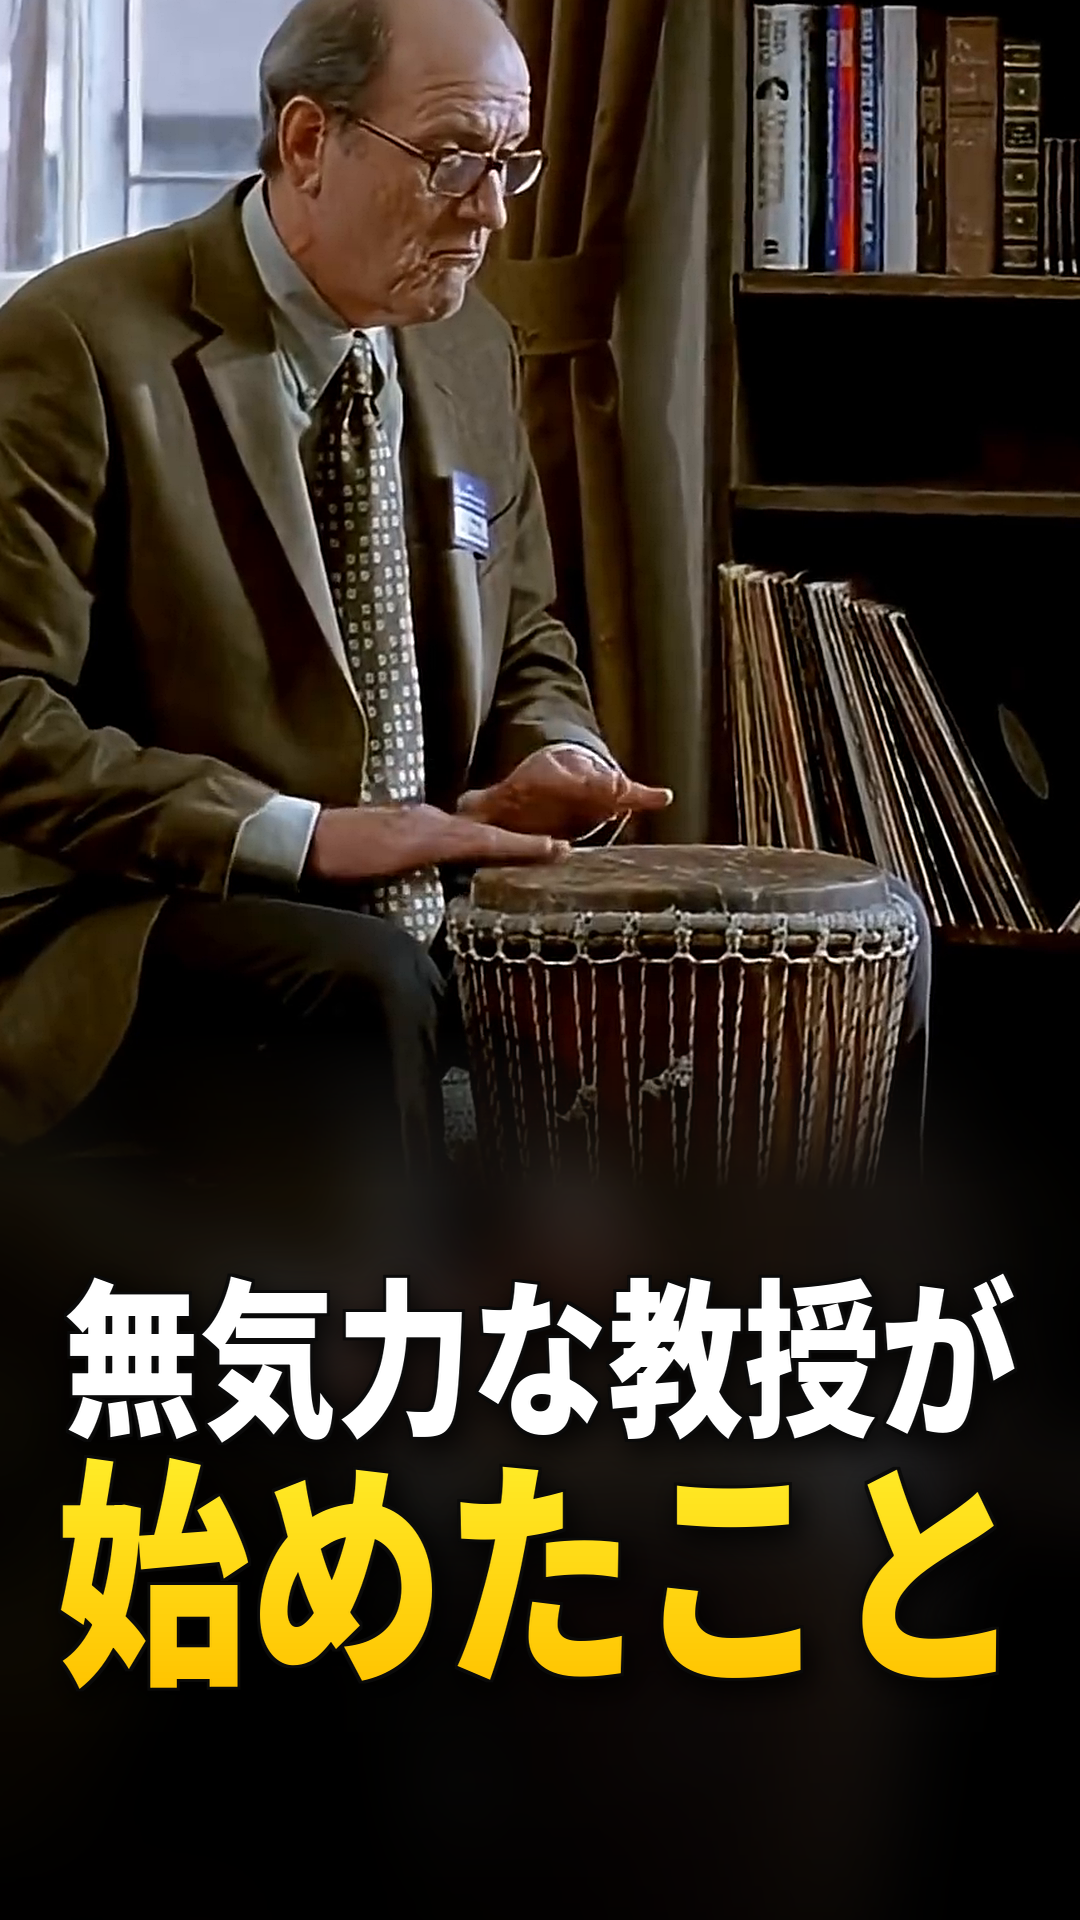
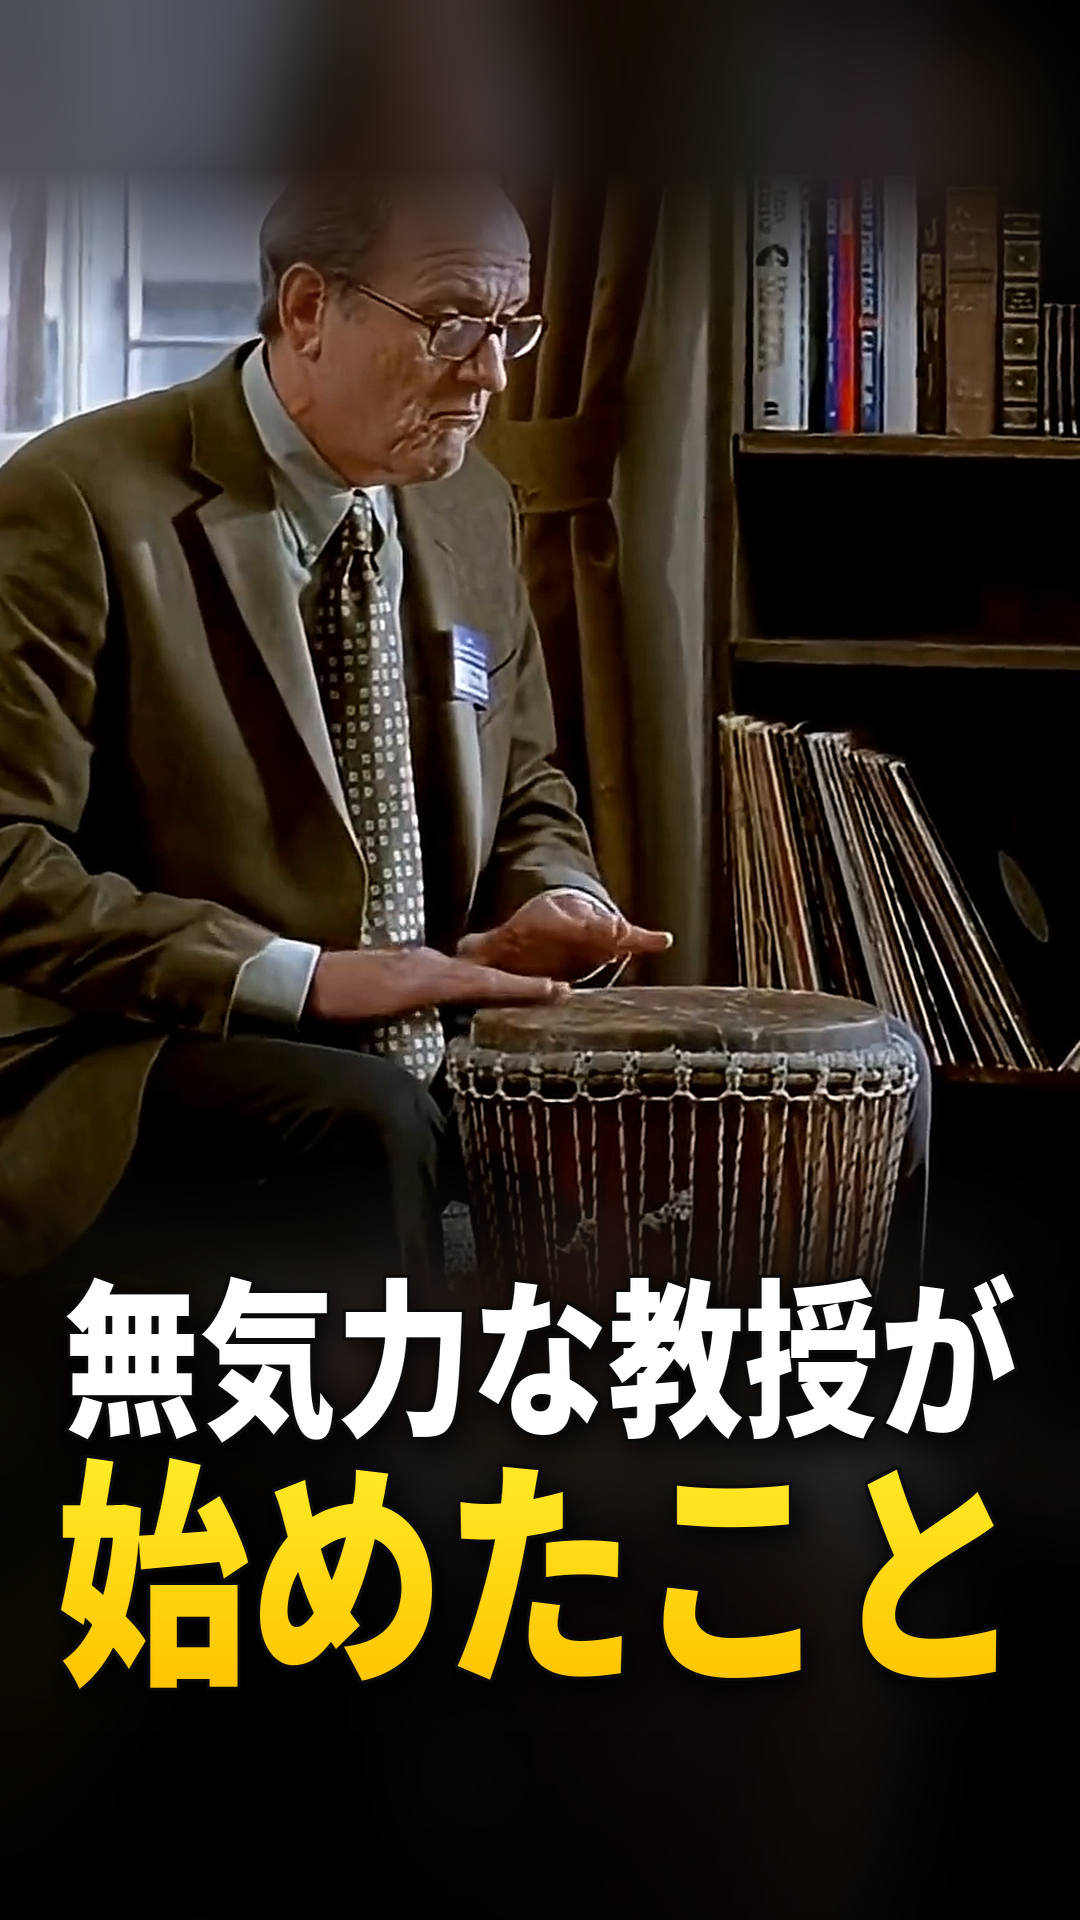
영화 채널: heal 썸네일 얼굴 위치를 지침(위 15~50%)에 맞춤(top_y)
Claude-Session: https://claude.ai/code/session_01BouazbyQEupnz8YLgYh8Wv

diff --git a/movie/tools/thumbnail.py b/movie/tools/thumbnail.py
@@ -17,7 +17,7 @@ TOP, BOTTOM = int(H * 0.61), int(H * 0.88)
 SIDE = int(W * 0.05)
 
 
-def frame(src, t, crop, top_h=None):
+def frame(src, t, crop, top_h=None, top_y=0):
     """top_h가 있으면 장면을 위쪽 top_h px에 맞추고, 아래는 같은 장면을 흐리고 어둡게 늘려 채운다(제목이 중요한 피사체를 덮지 않게)."""
     out = ROOT / "work/_thumb_frame.png"
     h = top_h or H
@@ -34,7 +34,10 @@ def frame(src, t, crop, top_h=None):
     d = ImageDraw.Draw(mask)
     for y in range(h - fade, h):
         d.line([(0, y), (W, y)], fill=int(255 * (h - y) / fade))
-    bg.paste(img, (0, 0), mask)
+    if top_y:  # 장면을 아래로 내리면 위 끝도 흐린 배경으로 부드럽게 잇는다
+        for y in range(0, min(fade, h)):
+            d.line([(0, y), (W, y)], fill=min(int(255 * y / fade), 255 if y >= h - fade else 255))
+    bg.paste(img, (0, top_y), mask)
     return bg
 
 
@@ -79,7 +82,7 @@ def main():
     P = ROOT / f"projects/{slug}"
     cfg = json.load(open(P / "thumb.json"))
     S = json.load(open(P / "script.json"))
-    img = frame(ROOT / S["source"], cfg["time"], cfg["crop"], cfg.get("top_h"))
+    img = frame(ROOT / S["source"], cfg["time"], cfg["crop"], cfg.get("top_h"), cfg.get("top_y", 0))
     # 아래쪽을 어둡게(글자 대비)
     shade = Image.new("L", (W, H), 0)
     d = ImageDraw.Draw(shade)
